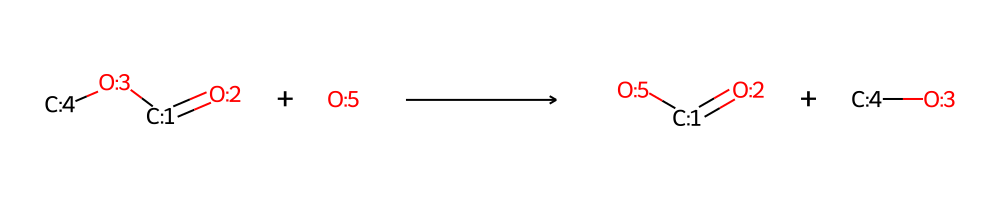
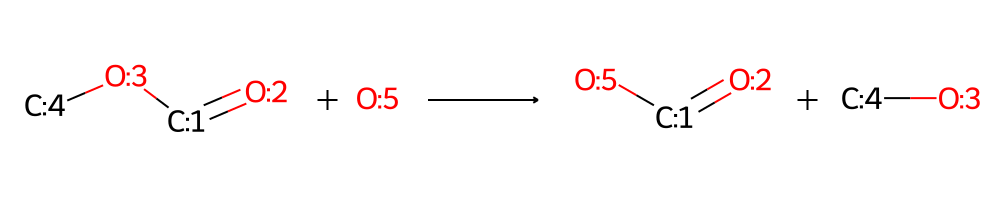
make the statistics

Changed region(s): [[0.0, 0.33, 0.558, 0.66], [0.558, 0.33, 0.992, 0.66]]

diff --git a/util/util_file.py b/util/util_file.py
@@ -3,7 +3,7 @@ Deal with files and paths.
 """
 
 import os
-# import sys
+import sys
 import shutil
 import json
 import logging
@@ -12,7 +12,9 @@ from typing import List, Optional, Tuple, Union
 
 import pandas as pd
 
-# sys.path.append(os.path.realpath(__file__))
+sys.path.append(os.getcwd()) # temporary
+from . import util_chem, util_func
+
 
 # ##############
 #
@@ -22,6 +24,7 @@ import pandas as pd
 
 def _getfilename(file: str) -> str:
     return {
+        "test_dataset": "test",
         "metadata_template": os.path.join(os.path.dirname(os.path.realpath(__file__)), "metadata.json"),
         "metadata_dataset": "metadata.json",
         "parse_func_template": os.path.join(os.path.dirname(os.path.realpath(__file__)), "parse_template.py"),
@@ -33,6 +36,8 @@ def _getfilename(file: str) -> str:
         "activity": "activity.csv",
         "sdfdir": "sdf", #
         "pdbdir": "pdb", #
+        "reaction_pic_dataset": "./media/reaction/{}.png",
+        "statistics": "./statistics.csv"
     }[file]
 
 # Deal with the clean, raw dirs
@@ -164,12 +169,73 @@ def save_files(
 
     return
 
+# ##############
+#
+# Statitcs, meta
+#
+# ###############
 
+def _readmeta(metafilepath:str, *args, **kwargs) -> Union[dict, None]:
+    try:
+        with open(metafilepath, "r") as fp:
+            metadata = json.load(fp)
+    except Exception as e:
+        logging.info(f"{e}")
+        metadata = None
+    return metadata
 
+def _writemeta(metafilepath:str, meta:dict, *args, **kwargs):
+    with open(metafilepath, "w") as f:
+        f.write(json.dumps(meta, ensure_ascii=True, indent=4))
 
+def _make_statistics(dir_clean:str, *args, **kwargs):
+    enzymes, chemicals, activity = read_files(dir_clean, *args, **kwargs)
+    return {
+        "number_of_enzyme": len(enzymes),
+        "number_of_chemical": len(chemicals),
+        "number_of_activity": activity.shape[0] * activity.shape[1]
+    }
 
+def make_statistics(
+    dir_clean_dataset:str,
+    dir_raw_dataset:str,
+    dir_parse_func:str, # mandatory, for importmodule
+    verbose:bool=False,
+    *args, **kwargs
+):
+    statistics = []
+    for dataset_name in os.listdir(dir_clean_dataset):
+        if dataset_name in [_getfilename("test_dataset")]:
+            continue
+        dir_clean = os.path.join(dir_clean_dataset, dataset_name)
+        dir_meta = dir_clean
 
+        metafilepath = os.path.join(dir_meta, _getfilename("metadata_dataset").format(dataset_name))
+        meta = _readmeta(metafilepath, *args, **kwargs)
 
+        meta["statistics"] = _make_statistics(dir_clean, *args, **kwargs)
+        _writemeta(metafilepath, meta, *args, **kwargs)
+
+        reaction_pic_filepath = os.path.join(_getfilename("reaction_pic_dataset").format(dataset_name))
+
+        statistics.append([
+            dataset_name,
+            meta["basic"]["dataset description"],
+            "![{}]({})".format(dataset_name, util_chem.draw_reaction_pic(reaction_pic_filepath, meta["basic"]["activity reaction"], verbose, *args, **kwargs)),
+            *(v for k,v in meta["statistics"].items())
+        ])
+    
+    statistics_filepath = _getfilename("statistics")
+    pd.DataFrame(
+        statistics, 
+        columns = [
+            "Dataset", 
+            "Description", 
+            "Reaction", 
+            *(k for k,v in meta["statistics"].items())
+        ]).to_csv(statistics_filepath)
+    if verbose:
+        logging.info(f"Save the statistics to the file: {statistics_filepath}")
 
 # ##############
 #
@@ -215,7 +281,7 @@ def writemeta() -> None:
             "activity definition": "(str) the numerical definition of the activity from reaction time-course",
             "activity condition": "(str) The assay condition. For example ,the pH, temperature, substrate , additives and so on."
         },
-        "statistic":{
+        "statistics":{
             "number_of_chemical": "(int) calculated from the enzymes.csv file",
             "number_of_enzyme": "(int) calculated from the chemicals.csv file",
             "number_of_activity": "(int) number_of_chemical * number_of_enzyme"
@@ -242,9 +308,9 @@ def writemeta() -> None:
             "curation": "(str) the data curation process",
         }
     }
-    if not os.path.exists(_getfilename("metadata_template")):
-        with open(_getfilename("metadata_template"), "w") as f:
-            f.write(json.dumps(meta, ensure_ascii=True, indent=4))
+    metafilepath = _getfilename("metadata_template")
+    if not os.path.exists(metafilepath):
+        _writemeta(metafilepath, meta)
     return
 
 def writeparse_func() -> None:

diff --git a/main.py b/main.py
@@ -9,22 +9,26 @@ from util import util_file, util_log
 
 # sys.path.append(os.path.join(os.path.realpath(__file__), "util"))
 
-
 parser = argparse.ArgumentParser()
 parser.add_argument("-v", action="store_true", help="verbose")
 parser.add_argument("-t", action="store_true", help="test the code")
 parser.add_argument("-n", type=str, help="for a new dataset, make the dirs and files")
 parser.add_argument("-o", action="store_true", help="for an existing dataset, refresh the data by querying online server or database")
-parser.add_argument("-m", type=str, help="for an existing dataset, show the metadata")
+# parser.add_argument("-m", type=str, help="for an existing dataset, show the metadata")
 parser.add_argument("-s", action="store_true", help="make the statistic")
 parser.add_argument("-l", action="store_true", help="make the log")
 
 
-def main(dataset_names:list, online:bool, *args, **kwargs):
-    dir_clean_dataset = r".\datasets"
-    dir_raw_dataset = r".\process"
-    dir_parse_func = r".\util" # mandatory, for importmodule
-
+def main(
+    dataset_names:list, 
+    online:bool, 
+    dir_clean_dataset:str,
+    dir_raw_dataset:str,
+    dir_parse_func:str, # mandatory, for importmodule
+    *args, **kwargs
+):
+    """
+    """
     for dataset_name in dataset_names:
         paths = {}
 
@@ -53,37 +57,47 @@ def main(dataset_names:list, online:bool, *args, **kwargs):
             parse_module.online(paths, *args, **kwargs)
 
 
+
 if __name__ == "__main__":
     args = parser.parse_args()
-
 
     kwargs = {
         "verbose": args.v,
         "test": args.t,
-        "dataset_names": ["test"],
+        "dataset_names": [util_file._getfilename("test_dataset")],
         "debug": args.l,
         "online": args.o,
         "sec_sleep": 3,
+        "dir_clean_dataset": r".\datasets",
+        "dir_raw_dataset": r".\process",
+        "dir_parse_func": r".\util", # mandatory, for importmodule
     }
-    if not args.t:
-        kwargs["dataset_names"] = [args.n]
-        # dataset_names = [args.n]
 
     util_log.main(kwargs["debug"]) # the logging
 
-    main(**kwargs)
+    if args.s:
+        util_file.make_statistics(**kwargs)
 
-    # dataset_names = [
-    #     "esterase",
-    #     # "hadsf",
-    #     # "olea",
-    #     # "nitrilase",
-    #     # "phosphatase_ecoli",
-    #     # "phosphatase_scere",
-    #     # "bkace",
-    #     # "fdh_small",
-    #     # "fdh_large",
-    #     # "dehalogenase",
-    #     # "glycotransferase",
-    #     # "ired"
-    # ]
+    else:
+        if not args.t:
+            kwargs["dataset_names"] = [args.n]
+            # dataset_names = [args.n]
+
+        
+
+        main(**kwargs)
+
+        # dataset_names = [
+        #     "esterase",
+        #     # "hadsf",
+        #     # "olea",
+        #     # "nitrilase",
+        #     # "phosphatase_ecoli",
+        #     # "phosphatase_scere",
+        #     # "bkace",
+        #     # "fdh_small",
+        #     # "fdh_large",
+        #     # "dehalogenase",
+        #     # "glycotransferase",
+        #     # "ired"
+        # ]

diff --git a/util/util_chem.py b/util/util_chem.py
@@ -7,6 +7,9 @@ from collections.abc import Callable
 from typing import List, Tuple, Optional, Union
 
 import pubchempy as pcp
+from rdkit import Chem
+from rdkit.Chem import Draw
+from rdkit.Chem import AllChem
 
 
 # ##############
@@ -276,7 +279,24 @@ def query_local(
         *args, **kwargs
     )
 
+# ##############
+#
+# rdkit
+#
+# ###############
 
+def draw_reaction_pic(reaction_pic_filepath:str, smarts:str, verbose:bool=False, *args, **kwargs) -> str:
+    
+    try:
+        reaction = AllChem.ReactionFromSmarts(smarts)
+        img = Draw.ReactionToImage(reaction)
+        img.save(reaction_pic_filepath)
+        if verbose:
+            logging.info(f"Write to file:{reaction_pic_filepath}")
+    except Exception as e:
+        reaction_pic_filepath = ""
+        logging.info(f"{e}")
+    return reaction_pic_filepath
 
 
 # ##############

diff --git a/README.md b/README.md
@@ -1,7 +1,7 @@
 # ECI-data
 ECI stands for Enzyme-Chemical Interaction. The problem formulation is as below:
 
-![problem_formulation](media\problem_formulation.png)
+![problem_formulation](media/problem_formulation.png)
 
 **The high goal of ECI is to develop models which could use data of the activity of multiple compounds on related enzymes to enhance predictions of the activity of these compounds on the focused enzyme.** 
 
@@ -11,23 +11,7 @@ The repository contain datasets suitable for ECI tasks come from the literature 
 
 
 
-## Usage
-
-Show the meta data for one dataset.
-
-```python
-python main.py -m [dataset_name]
-```
-
-Test the codes.
-
-```
-python main.py -t [-v]
-```
-
-
-
-# File Organization
+## File Organization
 
 Refer to the `tree.txt` for details.
 
@@ -46,10 +30,12 @@ Four files are provided for each dataset.
 
 | file            | description                                                  |
 | --------------- | ------------------------------------------------------------ |
-| `enzymes.csv`   | Name, Sequence and other properties                          |
+| `enzymes.csv`   | Name, Sequence, pdb and other properties                     |
 | `chemicals.csv` | Name, SMILES, sdf file path and other properties             |
 | `activity.csv`  | raw values from literature                                   |
 | `metadata.json` | the original data collection strategy, modeling strategy, and enzyme catalysis issues to be explored |
+
+
 
 ## Metadata description
 
@@ -75,20 +61,28 @@ Here are 2 datasets now. Run the code to make the statistical table below, as th
 python main.py -s
 ```
 
-| Dataset  |                      Description                       |                  Reaction                  |  #E  |  #C  |  #A   |
-| :------: | :----------------------------------------------------: | :----------------------------------------: | :--: | :--: | :---: |
-| esterase | A broad ester library to a broad esterase collections. | ![esterase](.\media\reaction\esterase.png) | 147  |  96  | 14112 |
-|  hadsf   |                                                        |                                            | 216  | 167  | 36072 |
+| Dataset  |                       Description                       |                  Reaction                  |  #E  |  #C  |  #A   |
+| :------: | :-----------------------------------------------------: | :----------------------------------------: | :--: | :--: | :---: |
+| esterase | A broad ester library to a broad esterase  collections. | ![esterase](./media/reaction/esterase.png) | 147  |  96  | 14112 |
+|  hadsf   |          Broad phosphate to broad phosphatase           |    ![hadsf](./media/reaction/hadsf.png)    | 216  | 167  | 36072 |
+|          |                                                         |                                            |      |      |       |
+|          |                                                         |                                            |      |      |       |
 
 
 
 ## Data Curation
 
-We recommend that you install the python packages by conda. And then delete all the files in datasets directory.
+We recommend that you install the python packages by conda.
 
 ```
 conda create -n eci_data python=3.9
 conda install --yes --file requirements
+```
+
+Run the code to make a test.
+
+```
+python main.py -t [-v]
 ```
 
 For a new dataset, run the code to generate the directory and  `parse_[dataset_name].py`  and `metadata.json` files.
@@ -100,7 +94,7 @@ python main.py -n [dataset_name] [-v]
  After collecting the raw data files and editing the `parse_[dataset_name].py` file, run
 
 ```
-python main.py -n [dataset_name] [-v]
+python main.py -n [dataset_name] -o [-v]
 ```
 
 The `main.py` will call the `parse()` function in the `parse_[dataset_name].py` to curate the data. Feel free to change the code in `parse_[dataset_name].py` and output finally the desired files.
